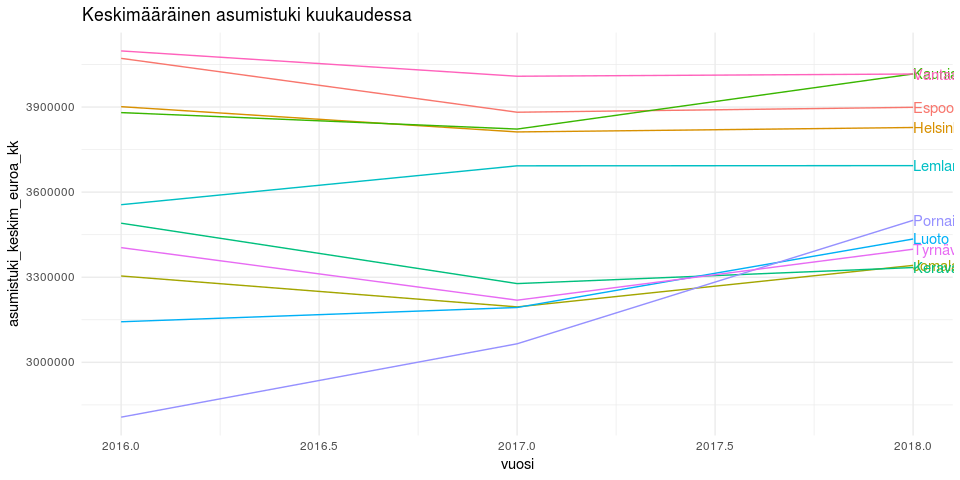
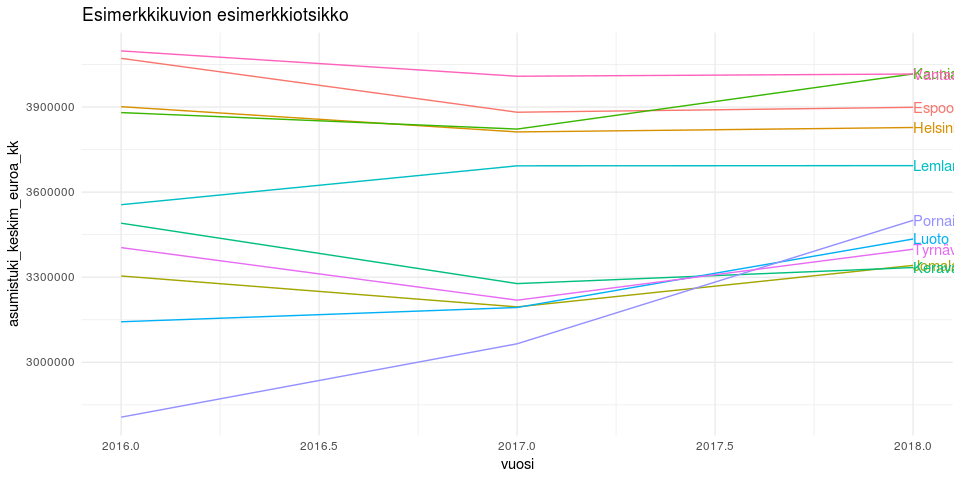
tiiviimpi esimerkki2

Changed region(s): [[0.0938, 0.0, 0.4375, 0.0625]]

diff --git a/2019-02-19-kelan-yleisen-asumistuen-saajat/2019-02-19-kelan-yleisen-asumistuen-saajat.md b/2019-02-19-kelan-yleisen-asumistuen-saajat/2019-02-19-kelan-yleisen-asumistuen-saajat.md
@@ -34,13 +34,8 @@ Datan ja metadatan lataaminen
     ckanr_setup(url = "https://beta.avoindata.fi/data/fi/")
     x <- package_search(q = "Kansaneläkelaitos", fq = "title:yleisen")
     resources <- x$results[[1]]$resources
-    resources[[1]]$name
-
-    ## [1] "Kelan yleisen asumistuen saajat"
-
-    resources[[2]]$name
-
-    ## [1] "Metadata"
+    # resources[[1]]$name
+    # resources[[2]]$name
 
     dat <- readr::read_csv2(resources[[1]]$url)
     meta <- fromJSON(txt = resources[[2]]$url)
@@ -48,68 +43,207 @@ Datan ja metadatan lataaminen
 Datan ja metadatan kuvailu
 ==========================
 
-    meta$profile
-
-    ## [1] "data-package"
-
-    meta$name
-
-    ## [1] "Kelan yleisen asumistuen saajat"
-
-    meta$title
-
-    ## [1] "Yleisen asumistuen saajaruokakunnat, keskimääräiset tuet, asumismenot ja ruokakunnan tulot"
-
-    meta$description
-
-    ## [1] "Yleisen asumistuen saajaruokakunnat, keskimääräiset tuet, asumismenot ja ruokakunnan tulot.\n Cras neque odio, sollicitudin a porttitor id, convallis ut nibh. Suspendisse vel purus nibh. Cras finibus dolor eu justo vehicula dapibus. Mauris egestas finibus velit eget mattis. Suspendisse sem nunc, vulputate eu lectus vitae, iaculis tempor augue. Curabitur placerat risus magna, at mattis magna pharetra id. Etiam ornare enim non sem suscipit egestas. \n"
-
     # Datan muuttujatieto
-    meta$resources$schema$fields[[1]]
+    meta$resources$schema$fields[[1]] %>% kable(format = "markdown")
 
-    ##                                   name                               title
-    ## 1                                kunta                Kunnan nimi suomeksi
-    ## 2                                vuosi                               vuosi
-    ## 3                     ruokakuntatyyppi                    Ruokakuntatyyppi
-    ## 4                     saajaruokakunnat                    Saajaruokakunnat
-    ## 5           asumistuki_keskim_euroa_kk      Keskimääräinen asumistuki e/kk
-    ## 6          asumismenot_keskim_euroa_kk            Keskim. asumismenot e/kk
-    ## 7       asumistukitulo_keskim_euroa_kk         Keskim. asumistukitulo e/kk
-    ## 8   asumismenot_ennen_asumistukea_pros     Asumismenot ennen asumistukea %
-    ## 9  asumismenot_asumistuen_jalkeen_pros   Asumismenot asumistuen  jälkeen %
-    ## 10          asumismenot_keskim_e_m2_kk         Keskim. asumismenot e/m2/kk
-    ## 11   asunnon_keskim_pintaala_m2_asunto Asunnon keskim. pinta-ala m2/asunto
-    ##       type  format
-    ## 1   string default
-    ## 2  integer default
-    ## 3   string default
-    ## 4   number default
-    ## 5  integer default
-    ## 6  integer default
-    ## 7  integer default
-    ## 8  integer default
-    ## 9  integer default
-    ## 10  number default
-    ## 11  number default
+<table>
+<colgroup>
+<col width="40%" />
+<col width="40%" />
+<col width="9%" />
+<col width="9%" />
+</colgroup>
+<thead>
+<tr class="header">
+<th align="left">name</th>
+<th align="left">title</th>
+<th align="left">type</th>
+<th align="left">format</th>
+</tr>
+</thead>
+<tbody>
+<tr class="odd">
+<td align="left">kunta</td>
+<td align="left">Kunnan nimi suomeksi</td>
+<td align="left">string</td>
+<td align="left">default</td>
+</tr>
+<tr class="even">
+<td align="left">vuosi</td>
+<td align="left">vuosi</td>
+<td align="left">integer</td>
+<td align="left">default</td>
+</tr>
+<tr class="odd">
+<td align="left">ruokakuntatyyppi</td>
+<td align="left">Ruokakuntatyyppi</td>
+<td align="left">string</td>
+<td align="left">default</td>
+</tr>
+<tr class="even">
+<td align="left">saajaruokakunnat</td>
+<td align="left">Saajaruokakunnat</td>
+<td align="left">number</td>
+<td align="left">default</td>
+</tr>
+<tr class="odd">
+<td align="left">asumistuki_keskim_euroa_kk</td>
+<td align="left">Keskimääräinen asumistuki e/kk</td>
+<td align="left">integer</td>
+<td align="left">default</td>
+</tr>
+<tr class="even">
+<td align="left">asumismenot_keskim_euroa_kk</td>
+<td align="left">Keskim. asumismenot e/kk</td>
+<td align="left">integer</td>
+<td align="left">default</td>
+</tr>
+<tr class="odd">
+<td align="left">asumistukitulo_keskim_euroa_kk</td>
+<td align="left">Keskim. asumistukitulo e/kk</td>
+<td align="left">integer</td>
+<td align="left">default</td>
+</tr>
+<tr class="even">
+<td align="left">asumismenot_ennen_asumistukea_pros</td>
+<td align="left">Asumismenot ennen asumistukea %</td>
+<td align="left">integer</td>
+<td align="left">default</td>
+</tr>
+<tr class="odd">
+<td align="left">asumismenot_asumistuen_jalkeen_pros</td>
+<td align="left">Asumismenot asumistuen jälkeen %</td>
+<td align="left">integer</td>
+<td align="left">default</td>
+</tr>
+<tr class="even">
+<td align="left">asumismenot_keskim_e_m2_kk</td>
+<td align="left">Keskim. asumismenot e/m2/kk</td>
+<td align="left">number</td>
+<td align="left">default</td>
+</tr>
+<tr class="odd">
+<td align="left">asunnon_keskim_pintaala_m2_asunto</td>
+<td align="left">Asunnon keskim. pinta-ala m2/asunto</td>
+<td align="left">number</td>
+<td align="left">default</td>
+</tr>
+</tbody>
+</table>
 
     # Datan ensimmäiset rivit 
-    head(dat)
+    head(dat) %>% kable(format = "markdown")
 
-    ## # A tibble: 6 x 11
-    ##   kunta vuosi ruokakuntatyyppi saajaruokakunnat asumistuki_kesk…
-    ##   <chr> <dbl> <chr>                       <dbl>            <dbl>
-    ## 1 Akaa   2018 Yhteensä                    60400          2796358
-    ## 2 Akaa   2018 Yksin asuvat                37900          2337341
-    ## 3 Akaa   2018 Lapsettomat par…             2700          2688667
-    ## 4 Akaa   2018 Lapsiperheet yh…            18400          3784205
-    ## 5 Akaa   2018 Kahden huoltaja…             3800          3875579
-    ## 6 Akaa   2018 Yhden huoltajan…            14600          3760423
-    ## # … with 6 more variables: asumismenot_keskim_euroa_kk <dbl>,
-    ## #   asumistukitulo_keskim_euroa_kk <dbl>,
-    ## #   asumismenot_ennen_asumistukea_pros <dbl>,
-    ## #   asumismenot_asumistuen_jalkeen_pros <dbl>,
-    ## #   asumismenot_keskim_e_m2_kk <dbl>,
-    ## #   asunnon_keskim_pintaala_m2_asunto <dbl>
+<table>
+<colgroup>
+<col width="2%" />
+<col width="2%" />
+<col width="9%" />
+<col width="6%" />
+<col width="9%" />
+<col width="10%" />
+<col width="11%" />
+<col width="12%" />
+<col width="13%" />
+<col width="9%" />
+<col width="12%" />
+</colgroup>
+<thead>
+<tr class="header">
+<th align="left">kunta</th>
+<th align="right">vuosi</th>
+<th align="left">ruokakuntatyyppi</th>
+<th align="right">saajaruokakunnat</th>
+<th align="right">asumistuki_keskim_euroa_kk</th>
+<th align="right">asumismenot_keskim_euroa_kk</th>
+<th align="right">asumistukitulo_keskim_euroa_kk</th>
+<th align="right">asumismenot_ennen_asumistukea_pros</th>
+<th align="right">asumismenot_asumistuen_jalkeen_pros</th>
+<th align="right">asumismenot_keskim_e_m2_kk</th>
+<th align="right">asunnon_keskim_pintaala_m2_asunto</th>
+</tr>
+</thead>
+<tbody>
+<tr class="odd">
+<td align="left">Akaa</td>
+<td align="right">2018</td>
+<td align="left">Yhteensä</td>
+<td align="right">60400</td>
+<td align="right">2796358</td>
+<td align="right">5415889</td>
+<td align="right">9667248</td>
+<td align="right">56023</td>
+<td align="right">27097</td>
+<td align="right">91049</td>
+<td align="right">59483</td>
+</tr>
+<tr class="even">
+<td align="left">Akaa</td>
+<td align="right">2018</td>
+<td align="left">Yksin asuvat</td>
+<td align="right">37900</td>
+<td align="right">2337341</td>
+<td align="right">4500426</td>
+<td align="right">6716300</td>
+<td align="right">67008</td>
+<td align="right">32207</td>
+<td align="right">94712</td>
+<td align="right">47517</td>
+</tr>
+<tr class="odd">
+<td align="left">Akaa</td>
+<td align="right">2018</td>
+<td align="left">Lapsettomat parit</td>
+<td align="right">2700</td>
+<td align="right">2688667</td>
+<td align="right">6000330</td>
+<td align="right">12090970</td>
+<td align="right">49627</td>
+<td align="right">27390</td>
+<td align="right">95468</td>
+<td align="right">62852</td>
+</tr>
+<tr class="even">
+<td align="left">Akaa</td>
+<td align="right">2018</td>
+<td align="left">Lapsiperheet yhteensä</td>
+<td align="right">18400</td>
+<td align="right">3784205</td>
+<td align="right">7194155</td>
+<td align="right">15167695</td>
+<td align="right">47431</td>
+<td align="right">22482</td>
+<td align="right">86399</td>
+<td align="right">83266</td>
+</tr>
+<tr class="odd">
+<td align="left">Akaa</td>
+<td align="right">2018</td>
+<td align="left">Kahden huoltajan perheet</td>
+<td align="right">3800</td>
+<td align="right">3875579</td>
+<td align="right">8512903</td>
+<td align="right">23076629</td>
+<td align="right">36890</td>
+<td align="right">20095</td>
+<td align="right">87905</td>
+<td align="right">96842</td>
+</tr>
+<tr class="even">
+<td align="left">Akaa</td>
+<td align="right">2018</td>
+<td align="left">Yhden huoltajan perheet</td>
+<td align="right">14600</td>
+<td align="right">3760423</td>
+<td align="right">6850919</td>
+<td align="right">13109205</td>
+<td align="right">52260</td>
+<td align="right">23575</td>
+<td align="right">85916</td>
+<td align="right">79740</td>
+</tr>
+</tbody>
+</table>
 
 Kuvio
 =====
@@ -133,6 +267,6 @@ Kuvio
                          kunta %in% kunnat,
                          vuosi == 2018), hjust = 0) +
       theme(legend.position = "none") +
-      labs(title = "Keskimääräinen asumistuki kuukaudessa")
+      labs(title = "Esimerkkikuvion esimerkkiotsikko")
 
 ![](2019-02-19-kelan-yleisen-asumistuen-saajat_files/figure-markdown_strict/kuva1-1.png)
